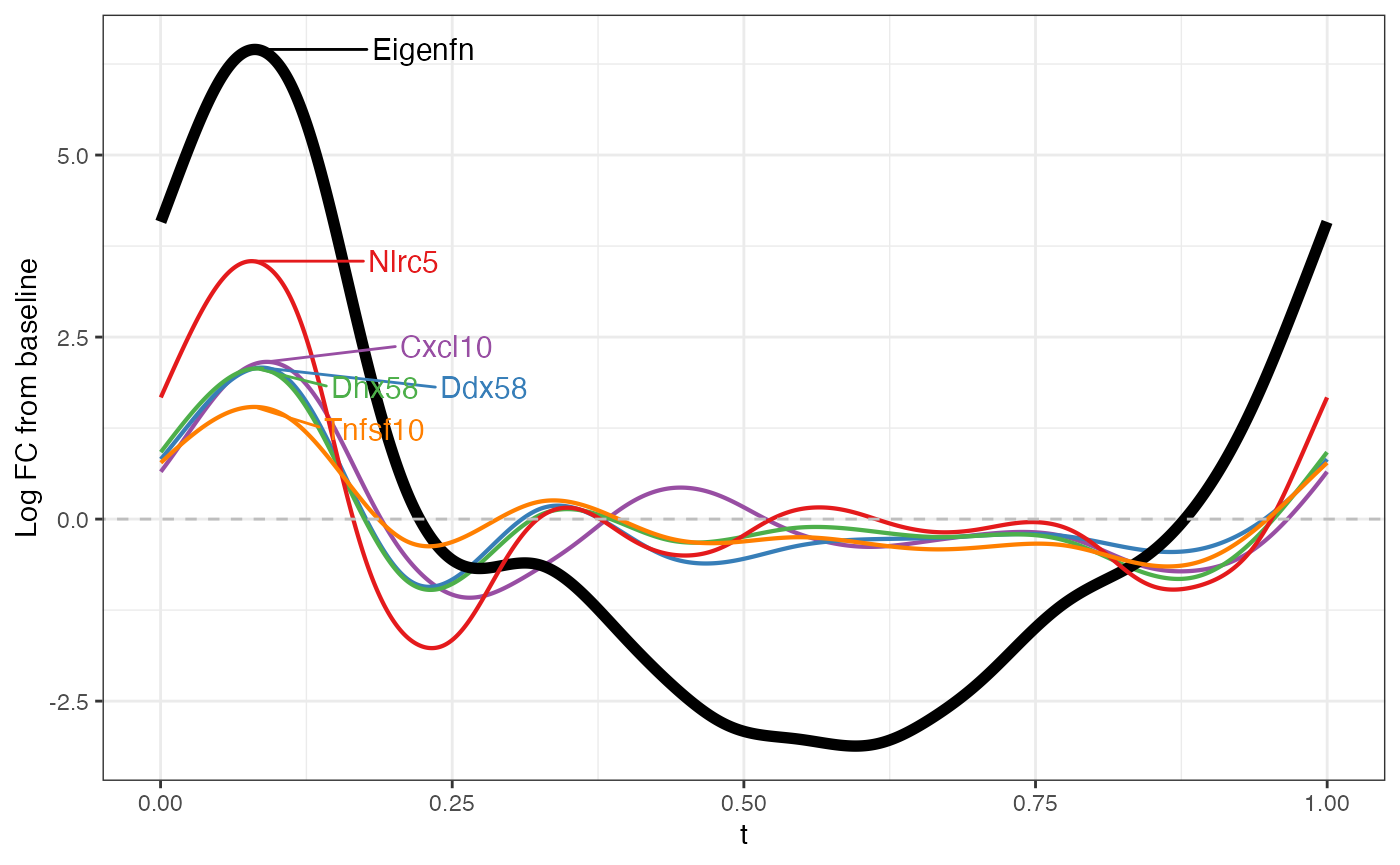
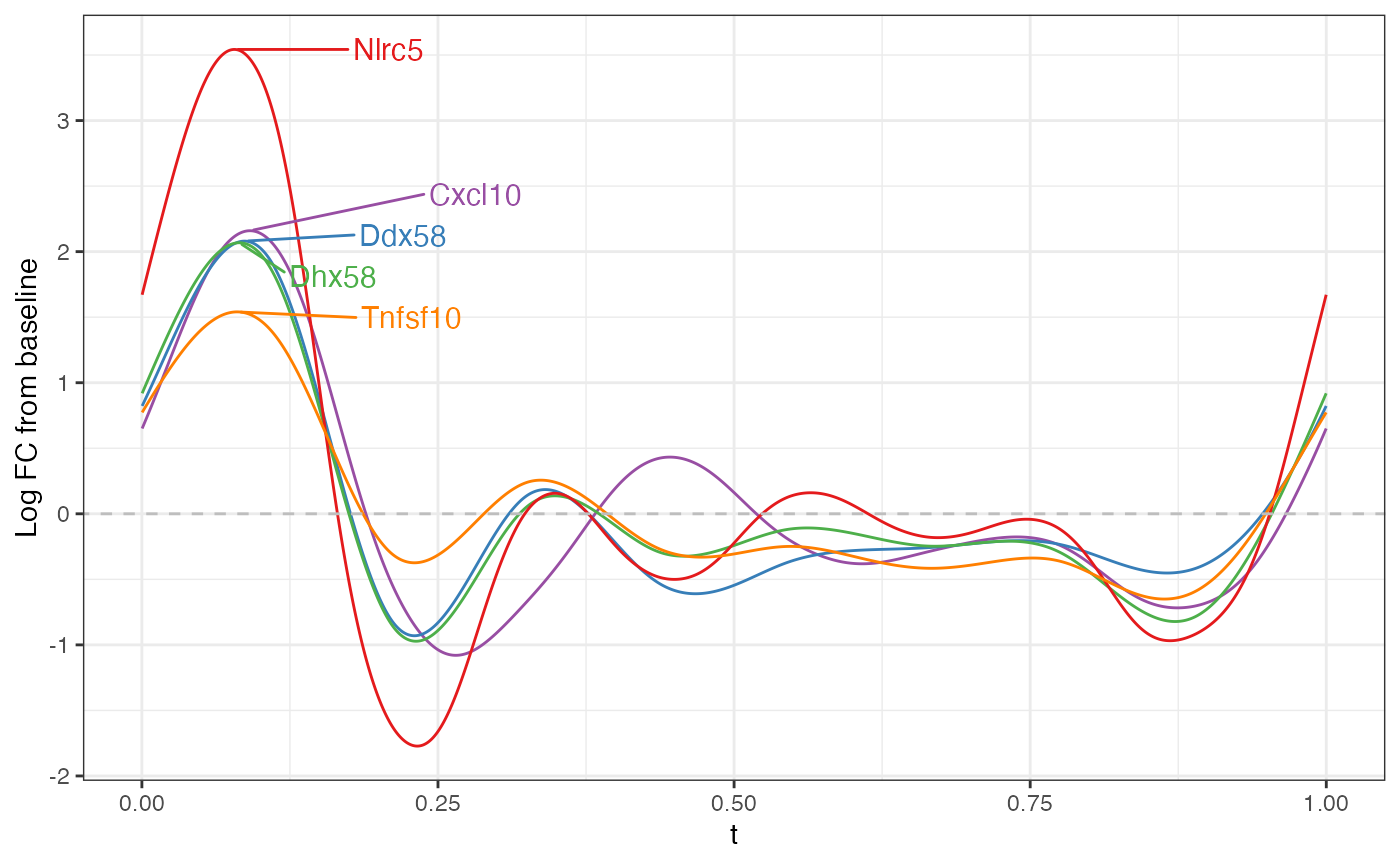
Deploying to gh-pages from @ phillipnicol/MorphoGAM@fc01ea98d7a95c97842a73e802804f94846170cd 🚀

diff --git a/reference/plotFPCloading.html b/reference/plotFPCloading.html
@@ -1,9 +1,7 @@
 <!DOCTYPE html>
-<!-- Generated by pkgdown: do not edit by hand --><html lang="en"><head><meta http-equiv="Content-Type" content="text/html; charset=UTF-8"><meta charset="utf-8"><meta http-equiv="X-UA-Compatible" content="IE=edge"><meta name="viewport" content="width=device-width, initial-scale=1, shrink-to-fit=no"><title>Plot top gene loadings from SVD Analysis — plotFPCloading • MorphoGAM</title><script src="../deps/jquery-3.6.0/jquery-3.6.0.min.js"></script><meta name="viewport" content="width=device-width, initial-scale=1, shrink-to-fit=no"><link href="../deps/bootstrap-5.3.1/bootstrap.min.css" rel="stylesheet"><script src="../deps/bootstrap-5.3.1/bootstrap.bundle.min.js"></script><link href="../deps/font-awesome-6.5.2/css/all.min.css" rel="stylesheet"><link href="../deps/font-awesome-6.5.2/css/v4-shims.min.css" rel="stylesheet"><script src="../deps/headroom-0.11.0/headroom.min.js"></script><script src="../deps/headroom-0.11.0/jQuery.headroom.min.js"></script><script src="../deps/bootstrap-toc-1.0.1/bootstrap-toc.min.js"></script><script src="../deps/clipboard.js-2.0.11/clipboard.min.js"></script><script src="../deps/search-1.0.0/autocomplete.jquery.min.js"></script><script src="../deps/search-1.0.0/fuse.min.js"></script><script src="../deps/search-1.0.0/mark.min.js"></script><!-- pkgdown --><script src="../pkgdown.js"></script><meta property="og:title" content="Plot top gene loadings from SVD Analysis — plotFPCloading"><meta name="description" content="Visualize the \(L\)-th FPCA eigenfunction together with the top
-num_genes genes most strongly associated with that component,
-over either the t or r coordinate."><meta property="og:description" content="Visualize the \(L\)-th FPCA eigenfunction together with the top
-num_genes genes most strongly associated with that component,
-over either the t or r coordinate."></head><body>
+<!-- Generated by pkgdown: do not edit by hand --><html lang="en"><head><meta http-equiv="Content-Type" content="text/html; charset=UTF-8"><meta charset="utf-8"><meta http-equiv="X-UA-Compatible" content="IE=edge"><meta name="viewport" content="width=device-width, initial-scale=1, shrink-to-fit=no"><title>Plot top gene loadings from SVD Analysis — plotFPCloading • MorphoGAM</title><script src="../deps/jquery-3.6.0/jquery-3.6.0.min.js"></script><meta name="viewport" content="width=device-width, initial-scale=1, shrink-to-fit=no"><link href="../deps/bootstrap-5.3.1/bootstrap.min.css" rel="stylesheet"><script src="../deps/bootstrap-5.3.1/bootstrap.bundle.min.js"></script><link href="../deps/font-awesome-6.5.2/css/all.min.css" rel="stylesheet"><link href="../deps/font-awesome-6.5.2/css/v4-shims.min.css" rel="stylesheet"><script src="../deps/headroom-0.11.0/headroom.min.js"></script><script src="../deps/headroom-0.11.0/jQuery.headroom.min.js"></script><script src="../deps/bootstrap-toc-1.0.1/bootstrap-toc.min.js"></script><script src="../deps/clipboard.js-2.0.11/clipboard.min.js"></script><script src="../deps/search-1.0.0/autocomplete.jquery.min.js"></script><script src="../deps/search-1.0.0/fuse.min.js"></script><script src="../deps/search-1.0.0/mark.min.js"></script><!-- pkgdown --><script src="../pkgdown.js"></script><meta property="og:title" content="Plot top gene loadings from SVD Analysis — plotFPCloading"><meta name="description" content="Visualize the top num_genes genes most strongly associated with the
+\(L\)-th FPCA component over either the t or r coordinate."><meta property="og:description" content="Visualize the top num_genes genes most strongly associated with the
+\(L\)-th FPCA component over either the t or r coordinate."></head><body>
     <a href="#main" class="visually-hidden-focusable">Skip to contents</a>
 
 
@@ -42,9 +40,8 @@ over either the t or r coordinate."></head><body>
     </div>
 
     <div class="ref-description section level2">
-    <p>Visualize the \(L\)-th FPCA eigenfunction together with the top
-<code>num_genes</code> genes most strongly associated with that component,
-over either the <code>t</code> or <code>r</code> coordinate.</p>
+    <p>Visualize the top <code>num_genes</code> genes most strongly associated with the
+\(L\)-th FPCA component over either the <code>t</code> or <code>r</code> coordinate.</p>
     </div>
 
     <div class="section level2">
@@ -79,15 +76,16 @@ which coordinate to plot against.</p></dd>
 </dl></div>
     <div class="section level2">
     <h2 id="value">Value<a class="anchor" aria-label="anchor" href="#value"></a></h2>
-    <p>A <code>ggplot2</code> object showing lines for the eigenfunction and the
-  selected gene smooths. A bright qualitative palette (excluding yellow) is
-  used for gene curves; labels are placed near each curve's maximum.</p>
+    <p>A <code>ggplot2</code> object showing lines for the selected gene smooths.
+  A bright qualitative palette (excluding yellow) is used for gene curves;
+  labels are placed near each curve's maximum.</p>
     </div>
     <div class="section level2">
     <h2 id="details">Details<a class="anchor" aria-label="anchor" href="#details"></a></h2>
     <p>The function identifies the <code>num_genes</code> genes with the largest absolute
-scores in the FPCA decomposition for the requested coordinate. It may flip
-sign to improve visualization.</p>
+scores in the FPCA decomposition for the requested coordinate. The
+eigenfunction is used to rank and orient the selected gene smooths, but it is
+not plotted alongside them.</p>
     </div>
 
   </main><aside class="col-md-3"><nav id="toc" aria-label="Table of contents"><h2>On this page</h2>

diff --git a/reference/plotFPCloading.md b/reference/plotFPCloading.md
@@ -1,8 +1,7 @@
 # Plot top gene loadings from SVD Analysis
 
-Visualize the \\L\\-th FPCA eigenfunction together with the top
-`num_genes` genes most strongly associated with that component, over
-either the `t` or `r` coordinate.
+Visualize the top `num_genes` genes most strongly associated with the
+\\L\\-th FPCA component over either the `t` or `r` coordinate.
 
 ## Usage
 
@@ -35,12 +34,13 @@ plotFPCloading(mgam_object, curve.fit, L = 1, num_genes = 5, type = "t")
 
 ## Value
 
-A `ggplot2` object showing lines for the eigenfunction and the selected
-gene smooths. A bright qualitative palette (excluding yellow) is used
-for gene curves; labels are placed near each curve's maximum.
+A `ggplot2` object showing lines for the selected gene smooths. A bright
+qualitative palette (excluding yellow) is used for gene curves; labels
+are placed near each curve's maximum.
 
 ## Details
 
 The function identifies the `num_genes` genes with the largest absolute
-scores in the FPCA decomposition for the requested coordinate. It may
-flip sign to improve visualization.
+scores in the FPCA decomposition for the requested coordinate. The
+eigenfunction is used to rank and orient the selected gene smooths, but
+it is not plotted alongside them.